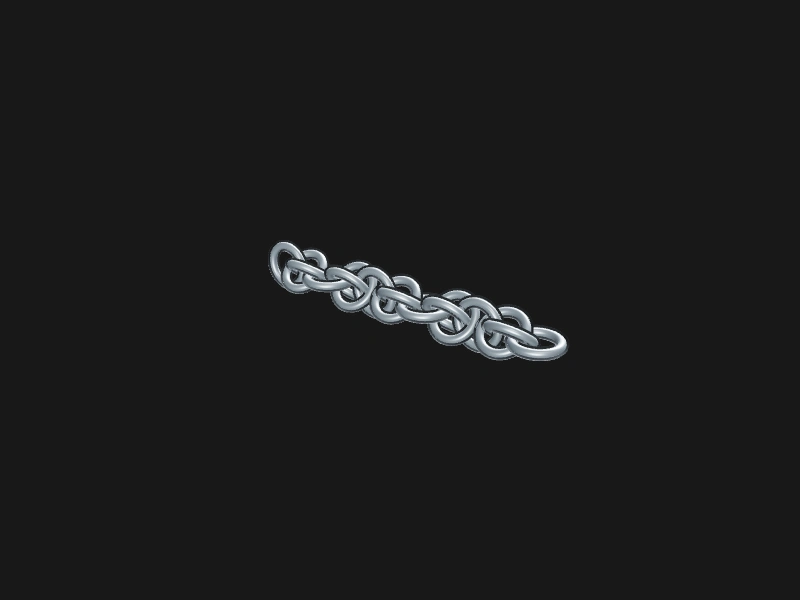
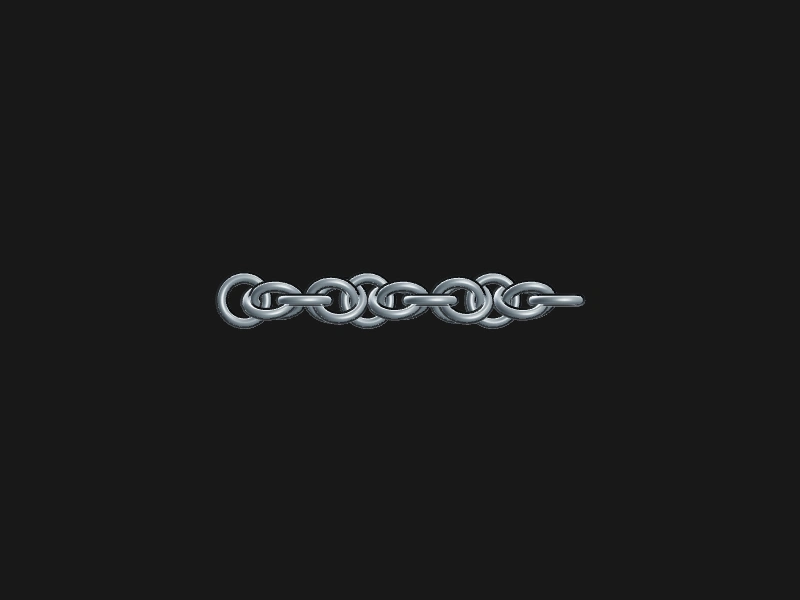
Use straight-on model views

Changed region(s): [[0.25, 0.39, 0.75, 0.6]]

diff --git a/src/main.jsx b/src/main.jsx
@@ -25,6 +25,7 @@ const COLORS = Object.entries(paletteData).map(([key, value]) => ({
   name: key.replaceAll('_', ' ').replace(/\b\w/g, (c) => c.toUpperCase()),
   finish: key.startsWith('matte_') ? 'Matte' : 'Bright',
 }))
+const CAMERA_DIRECTION = [0, 0, 1]
 
 function encodeDesign(colors) {
   const unique = []
@@ -90,7 +91,7 @@ function ModelObject({ file, colors, selected, onSelect, controls, preview = fal
     const horizontalFov = 2 * Math.atan(Math.tan(verticalFov / 2) * aspect)
     const limitingFov = Math.min(verticalFov, horizontalFov)
     const distance = (sphere.radius / Math.sin(limitingFov / 2)) * (preview ? 1.45 : 1.5)
-    const direction = new Vector3(...(preview ? [4, 3, 5] : [4.5, 3.2, 5.8])).normalize()
+    const direction = new Vector3(...CAMERA_DIRECTION)
 
     camera.position.copy(sphere.center).add(direction.multiplyScalar(distance))
     // Keep the clipping planes valid across the full OrbitControls zoom range.
@@ -144,7 +145,7 @@ function Scene({ model, colors = [], selected = [], onSelect = () => {}, preview
   const [controls, setControls] = useState(null)
   return (
     <Canvas
-      camera={{ position: preview ? [4, 3, 5] : [4.5, 3.2, 5.8], fov: 38 }}
+      camera={{ position: CAMERA_DIRECTION, fov: 38 }}
       dpr={preview ? [1, 2] : [1, 2.5]}
       gl={{ antialias: true, powerPreference: 'high-performance' }}
     >
